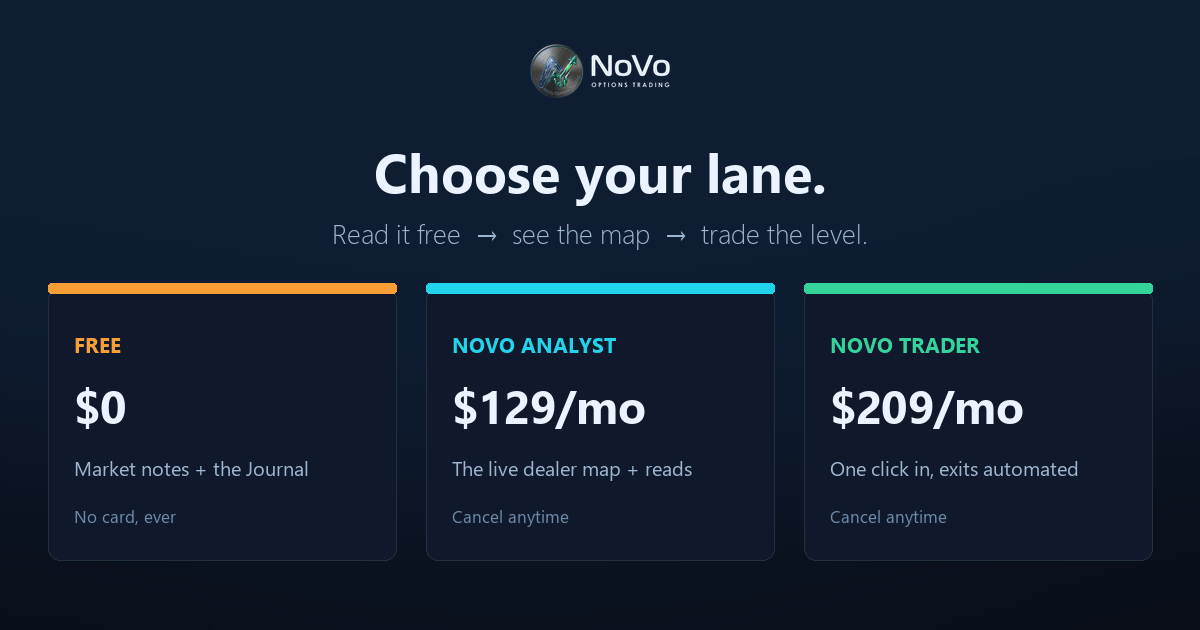
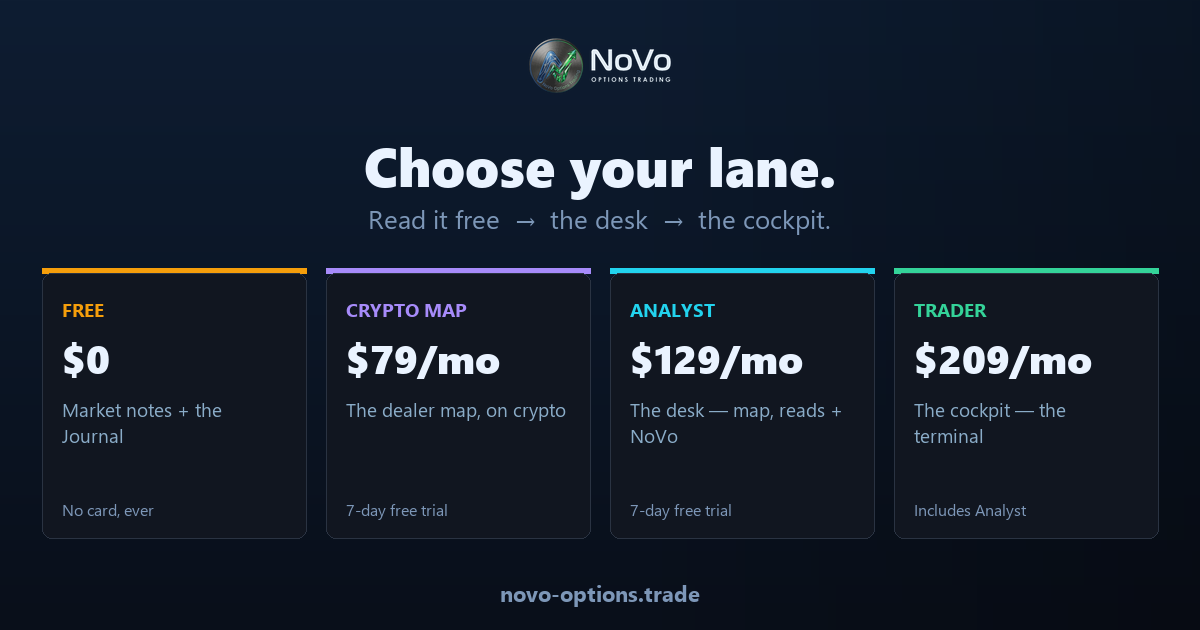
The OG card images stop selling the execution product
Jake caught it in a Discord embed: og-plans.png's Trader lane read "One click
in, exits automated" and og-trader.png led with "One click in. The exits run
themselves — ONE-CLICK ENTRY · AUTO EXITS · YOUR BROKER". The og TEXT tags were
fixed yesterday; the card IMAGES never were — the exact trap the
copy-sweeps-miss-screenshots memory documents, now hit on the OG surface too.

Both regenerated through the canonical generator (so future regens keep parity):
- og-trader: "The cockpit. Every dealer level, living on the candles" with the
  REAL terminal screenshot; strip = CHARTING TERMINAL · 1m–WEEKLY · THE THREE
  BOOKS · 24/5.
- og-plans: four honest lanes — Free, Crypto Map $79, Analyst $129 (the desk),
  Trader $209 (the cockpit) — replacing three lanes that omitted Crypto and
  claimed automated exits.
Audited the other eight cards visually: clean. ?v bumped so scrapers re-fetch.

diff --git a/public/plans.html b/public/plans.html
@@ -34,7 +34,7 @@ j.src='https://www.googletagmanager.com/gtm.js?id='+i+dl;f.parentNode.insertBefo
 <meta property="og:site_name" content="NoVo Options Trading">
 <meta property="og:title" content="NoVo Pricing — Crypto $79, Analyst $129, Trader $209">
 <meta property="og:description" content="The Crypto Market Map $79/mo. Analyst $129/mo for the dealer map and daily reads.">
-<meta property="og:image" content="https://novo-options.trade/og-plans.png?v=4">
+<meta property="og:image" content="https://novo-options.trade/og-plans.png?v=5">
 <meta property="og:image:width" content="1200">
 <meta property="og:image:height" content="630">
 <meta name="twitter:card" content="summary_large_image">
@@ -42,7 +42,7 @@ j.src='https://www.googletagmanager.com/gtm.js?id='+i+dl;f.parentNode.insertBefo
 <meta name="twitter:creator" content="@0dte_NoVo">
 <meta name="twitter:title" content="NoVo Pricing — Crypto $79, Analyst $129, Trader $209">
 <meta name="twitter:description" content="The Crypto Market Map $79/mo. Analyst $129/mo for the dealer map and daily reads.">
-<meta name="twitter:image" content="https://novo-options.trade/og-plans.png?v=4">
+<meta name="twitter:image" content="https://novo-options.trade/og-plans.png?v=5">
 <link rel="icon" href="/icon-192.png?v=7">
 <link rel="apple-touch-icon" href="/apple-touch-icon.png?v=5">
 <meta name="theme-color" content="#121316">
@@ -227,7 +227,7 @@ nav { position: relative; }
     .wm-1 { font-size: 20px; } .wm-2 { font-size: 8.5px; letter-spacing: 1.9px; margin-top: 3px; }
   }
 </style>
-<script type="application/ld+json">{"@context":"https://schema.org","@type":"SoftwareApplication","name":"NoVo Options Trading","applicationCategory":"FinanceApplication","operatingSystem":"Web","description":"SPY, QQQ & IWM 0DTE options dealer-positioning analysis (Analyst) and the same map streamed live on a candle chart with an hourly structural audit and its own scored record (Trader).","image":"https://novo-options.trade/og-plans.png?v=4","url":"https://novo-options.trade/plans","offers":[{"@type":"Offer","name":"Crypto Market Map","price":"79.00","priceCurrency":"USD","url":"https://novo-options.trade/crypto","priceSpecification":{"@type":"UnitPriceSpecification","price":"79.00","priceCurrency":"USD","billingDuration":1,"billingIncrement":1,"unitCode":"MON"}},{"@type":"Offer","name":"Crypto Market Map — yearly","price":"790.00","priceCurrency":"USD","url":"https://novo-options.trade/crypto","priceSpecification":{"@type":"UnitPriceSpecification","price":"790.00","priceCurrency":"USD","billingDuration":12,"billingIncrement":1,"unitCode":"MON"}},{"@type":"Offer","name":"Analyst","price":"129.00","priceCurrency":"USD","category":"subscription","availability":"https://schema.org/InStock","priceValidUntil":"2027-12-31","url":"https://novo-options.trade/plans","description":"Monthly subscription — the SPY, QQQ & IWM dealer map, gamma flip, walls, expected move, the desk's daily reads, and NoVo the AI market analyst. Starts with a 7-day free trial."},{"@type":"Offer","name":"Analyst — yearly","price":"1290.00","priceCurrency":"USD","category":"subscription","availability":"https://schema.org/InStock","priceValidUntil":"2027-12-31","url":"https://novo-options.trade/plans","description":"Annual subscription — two months free against the monthly price."},{"@type":"Offer","name":"Trader","price":"209.00","priceCurrency":"USD","category":"subscription","availability":"https://schema.org/InStock","priceValidUntil":"2027-12-31","url":"https://novo-options.trade/plans","description":"Monthly subscription — everything in Analyst plus the same map streamed live on a candle chart, an hourly structural audit, and its own scored record on the setup."},{"@type":"Offer","name":"Trader — yearly","price":"2000.00","priceCurrency":"USD","category":"subscription","availability":"https://schema.org/InStock","priceValidUntil":"2027-12-31","url":"https://novo-options.trade/plans","description":"Annual subscription — nearly two and a half months free against the monthly price."}]}</script>
+<script type="application/ld+json">{"@context":"https://schema.org","@type":"SoftwareApplication","name":"NoVo Options Trading","applicationCategory":"FinanceApplication","operatingSystem":"Web","description":"SPY, QQQ & IWM 0DTE options dealer-positioning analysis (Analyst) and the same map streamed live on a candle chart with an hourly structural audit and its own scored record (Trader).","image":"https://novo-options.trade/og-plans.png?v=5","url":"https://novo-options.trade/plans","offers":[{"@type":"Offer","name":"Crypto Market Map","price":"79.00","priceCurrency":"USD","url":"https://novo-options.trade/crypto","priceSpecification":{"@type":"UnitPriceSpecification","price":"79.00","priceCurrency":"USD","billingDuration":1,"billingIncrement":1,"unitCode":"MON"}},{"@type":"Offer","name":"Crypto Market Map — yearly","price":"790.00","priceCurrency":"USD","url":"https://novo-options.trade/crypto","priceSpecification":{"@type":"UnitPriceSpecification","price":"790.00","priceCurrency":"USD","billingDuration":12,"billingIncrement":1,"unitCode":"MON"}},{"@type":"Offer","name":"Analyst","price":"129.00","priceCurrency":"USD","category":"subscription","availability":"https://schema.org/InStock","priceValidUntil":"2027-12-31","url":"https://novo-options.trade/plans","description":"Monthly subscription — the SPY, QQQ & IWM dealer map, gamma flip, walls, expected move, the desk's daily reads, and NoVo the AI market analyst. Starts with a 7-day free trial."},{"@type":"Offer","name":"Analyst — yearly","price":"1290.00","priceCurrency":"USD","category":"subscription","availability":"https://schema.org/InStock","priceValidUntil":"2027-12-31","url":"https://novo-options.trade/plans","description":"Annual subscription — two months free against the monthly price."},{"@type":"Offer","name":"Trader","price":"209.00","priceCurrency":"USD","category":"subscription","availability":"https://schema.org/InStock","priceValidUntil":"2027-12-31","url":"https://novo-options.trade/plans","description":"Monthly subscription — everything in Analyst plus the same map streamed live on a candle chart, an hourly structural audit, and its own scored record on the setup."},{"@type":"Offer","name":"Trader — yearly","price":"2000.00","priceCurrency":"USD","category":"subscription","availability":"https://schema.org/InStock","priceValidUntil":"2027-12-31","url":"https://novo-options.trade/plans","description":"Annual subscription — nearly two and a half months free against the monthly price."}]}</script>
 <script type="application/ld+json">
 {"@context":"https://schema.org","@type":"BreadcrumbList","itemListElement":[{"@type":"ListItem","position":1,"name":"Home","item":"https://novo-options.trade/"},{"@type":"ListItem","position":2,"name":"NoVo Pricing","item":"https://novo-options.trade/plans"}]}
 </script>

diff --git a/public/trader.html b/public/trader.html
@@ -36,7 +36,7 @@ j.src='https://www.googletagmanager.com/gtm.js?id='+i+dl;f.parentNode.insertBefo
 <link rel="icon" href="/icon-192.png?v=7">
 <link rel="apple-touch-icon" href="/apple-touch-icon.png?v=5">
 <meta name="theme-color" content="#121316">
-<meta property="og:image" content="https://novo-options.trade/og-trader.png?v=5">
+<meta property="og:image" content="https://novo-options.trade/og-trader.png?v=6">
 <meta property="og:image:width" content="1200">
 <meta property="og:image:height" content="630">
 <meta name="twitter:card" content="summary_large_image">
@@ -44,7 +44,7 @@ j.src='https://www.googletagmanager.com/gtm.js?id='+i+dl;f.parentNode.insertBefo
 <meta name="twitter:creator" content="@0dte_NoVo">
 <meta name="twitter:title" content="NoVo | SPY, QQQ & IWM Scalping Made Easy — The Live Dealer Map">
 <meta name="twitter:description" content="Every dealer level on SPY, QQQ & IWM drawn on a live chart as it moves, with NoVo's hourly audit and its own record on the setup in front of you.">
-<meta name="twitter:image" content="https://novo-options.trade/og-trader.png?v=5">
+<meta name="twitter:image" content="https://novo-options.trade/og-trader.png?v=6">
 <link rel="canonical" href="https://novo-options.trade/trader">
 <link rel="preconnect" href="https://fonts.googleapis.com">
 <link rel="preconnect" href="https://fonts.gstatic.com" crossorigin>
@@ -59,7 +59,7 @@ j.src='https://www.googletagmanager.com/gtm.js?id='+i+dl;f.parentNode.insertBefo
       "name": "NoVo Options Trading",
       "url": "https://novo-options.trade",
       "logo": "https://novo-options.trade/novo-logo.png",
-      "image": "https://novo-options.trade/og-trader.png?v=5",
+      "image": "https://novo-options.trade/og-trader.png?v=6",
       "description": "Trader draws every dealer level on SPY, QQQ & IWM on a live chart as it moves — gamma flip, call and put walls, VWAP, expected move — with NoVo's hourly structural audit and its own logged record on the setup beside it.",
       "email": "support@novo-options.trade",
       "sameAs": [
@@ -86,7 +86,7 @@ j.src='https://www.googletagmanager.com/gtm.js?id='+i+dl;f.parentNode.insertBefo
       "applicationCategory": "FinanceApplication",
       "operatingSystem": "Web",
       "description": "SPY, QQQ & IWM options scalping made easy — an AI market analyst that draws every dealer level on your live chart, reads the tape all day, audits the structure every hour, and shows what its own record says the setup has done before.",
-      "image": "https://novo-options.trade/og-trader.png?v=5",
+      "image": "https://novo-options.trade/og-trader.png?v=6",
       "url": "https://novo-options.trade",
       "sameAs": [
         "https://x.com/0dte_NoVo",

diff --git a/scripts/make-og-cards.py b/scripts/make-og-cards.py
@@ -183,3 +183,65 @@ card('og-crypto.png', 'Crypto Market Map',
      'DEALER GAMMA  \u00b7  FUNDING BY VENUE  \u00b7  LIQUIDATIONS',
      '$79/mo', '\u00b7 7-day free trial', (0xa7, 0x8b, 0xfa),
      ladder((470, 414), (0xa7, 0x8b, 0xfa, 255), (0x7c, 0x3a, 0xed, 255)))
+
+# ---- Trader: the cockpit (2026-08-31 — the old card sold one-click entry and auto exits, the
+# retired execution product; Jake caught it in a Discord embed. The real terminal is the shot.) ----
+tshot = Image.open(os.path.join(PUB, 'screenshots', 'trader-live-chart.webp')).convert('RGBA')
+tw2 = 470
+tshot = tshot.resize((tw2, round(tshot.height * tw2 / tshot.width)), Image.LANCZOS)
+tshot = tshot.crop((0, 0, tw2, min(tshot.height, 414)))
+tframed = Image.new('RGBA', (tshot.width + 4, tshot.height + 4), (0x2e, 0x30, 0x36, 255))
+tframed.paste(tshot, (2, 2))
+
+card('og-trader.png', 'Trader', 'The cockpit. Every dealer level,' + chr(10) + 'living on the candles.',
+     'CHARTING TERMINAL  ·  1m–WEEKLY  ·  THE THREE BOOKS  ·  24/5',
+     '$209/mo', '· includes Analyst', (0x34, 0xd3, 0x99), tframed)
+
+# ---- Plans: four lanes, no execution claims (replaces the hand-made three-lane card whose Trader
+# lane read "One click in, exits automated") --------------------------------------------------------
+def plans_card():
+    im = background()
+    d = ImageDraw.Draw(im)
+    logo = Image.open(os.path.join(PUB, 'novo-logo.png')).convert('RGBA')
+    lw = 150
+    logo = logo.resize((lw, round(logo.height * lw / logo.width)), Image.LANCZOS)
+    im.paste(logo, ((1200 - lw) // 2, 34), logo)
+
+    tf = font('seguibl.ttf', 54)
+    t = 'Choose your lane.'
+    d.text(((1200 - d.textlength(t, font=tf)) // 2, 128), t, font=tf, fill=TXT1)
+    sf = font('segoeui.ttf', 26)
+    s2 = 'Read it free  →  the desk  →  the cockpit.'
+    d.text(((1200 - d.textlength(s2, font=sf)) // 2, 200), s2, font=sf, fill=TXT3)
+
+    lanes = [
+        ('FREE', '$0', 'Market notes + the Journal', 'No card, ever', (0xf5, 0x9e, 0x0b)),
+        ('CRYPTO MAP', '$79/mo', 'The dealer map, on crypto', '7-day free trial', (0xa7, 0x8b, 0xfa)),
+        ('ANALYST', '$129/mo', 'The desk — map, reads + NoVo', '7-day free trial', (0x22, 0xd3, 0xee)),
+        ('TRADER', '$209/mo', 'The cockpit — the terminal', 'Includes Analyst', (0x34, 0xd3, 0x99)),
+    ]
+    W, H, GAP = 264, 270, 20
+    x0 = (1200 - (W * 4 + GAP * 3)) // 2
+    y0 = 268
+    nf = font('segoeuib.ttf', 19)
+    pf = font('seguibl.ttf', 40)
+    df = font('segoeui.ttf', 19)
+    mf = font('segoeui.ttf', 16)
+    for i, (name, price, desc, note, ac) in enumerate(lanes):
+        x = x0 + i * (W + GAP)
+        d.rectangle([x, y0, x + W, y0 + 5], fill=ac)
+        d.rounded_rectangle([x, y0 + 5, x + W, y0 + H], radius=10,
+                            fill=(0x11, 0x16, 0x20, 255), outline=(0x2a, 0x33, 0x42, 255), width=1)
+        d.text((x + 20, y0 + 28), name, font=nf, fill=ac)
+        d.text((x + 20, y0 + 62), price, font=pf, fill=TXT1)
+        yy = y0 + 128
+        for ln in wrap(d, desc, df, W - 40):
+            d.text((x + 20, yy), ln, font=df, fill=TXT2)
+            yy += 26
+        d.text((x + 20, y0 + H - 40), note, font=mf, fill=TXT3)
+    d.text(((1200 - d.textlength('novo-options.trade', font=font('segoeuib.ttf', 22))) // 2, 578),
+           'novo-options.trade', font=font('segoeuib.ttf', 22), fill=TXT3)
+    im.save(os.path.join(PUB, 'og-plans.png'), optimize=True)
+    print('  wrote %-20s %s KB' % ('og-plans.png', os.path.getsize(os.path.join(PUB, 'og-plans.png')) // 1024))
+
+plans_card()
